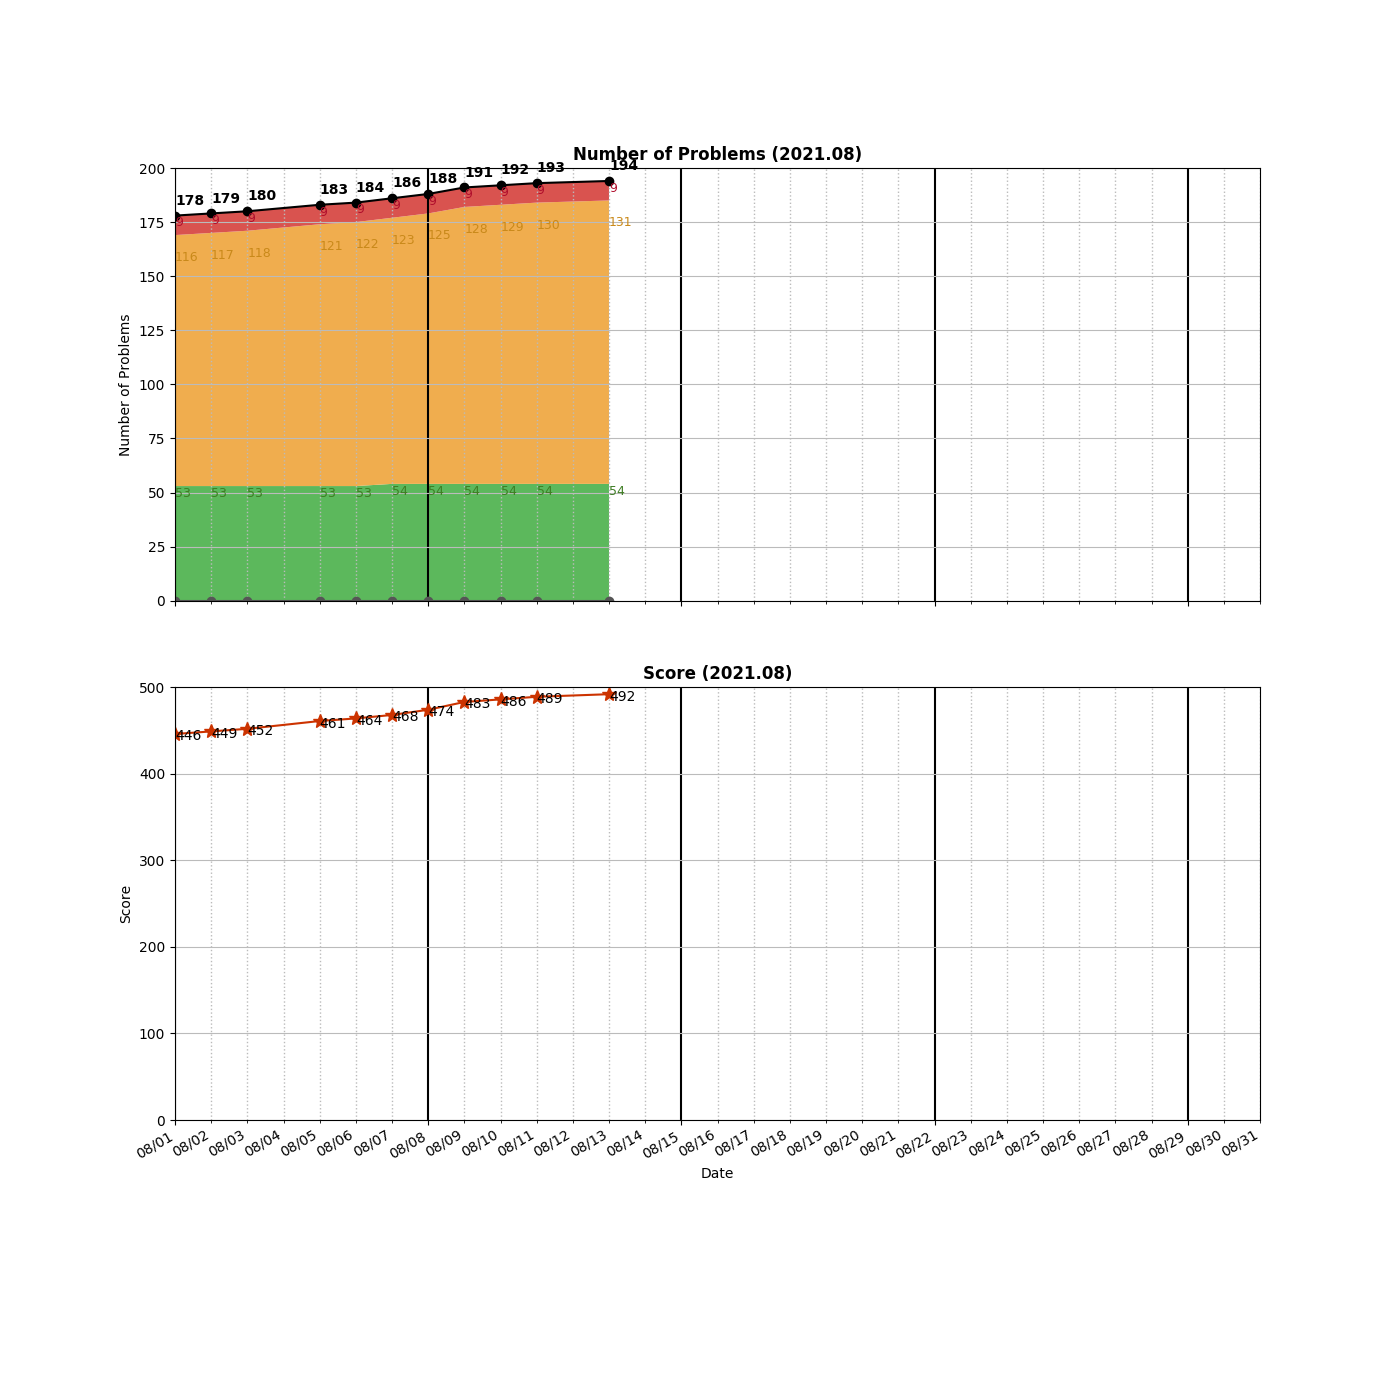
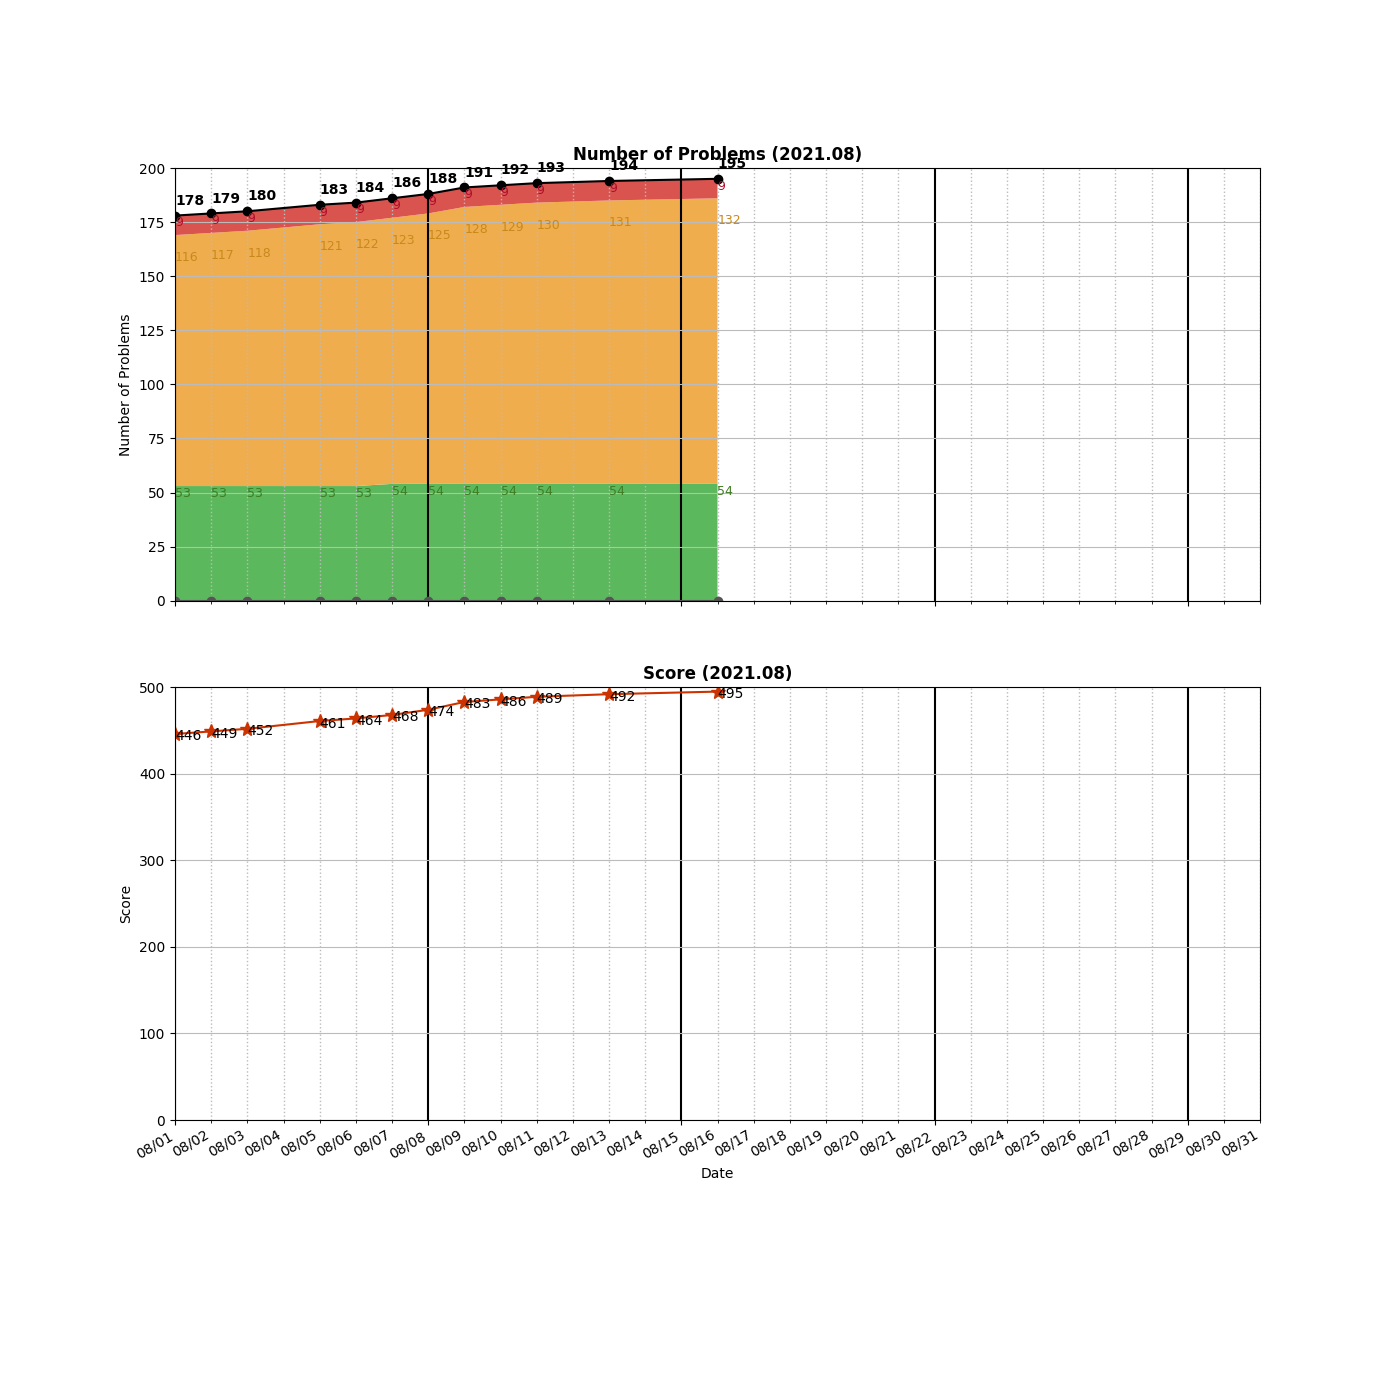
Added __0518__Coin Change 2.py

Changed region(s): [[0.43, 0.1229, 0.5221, 0.43], [0.4914, 0.4914, 0.5221, 0.5221]]

diff --git a/algo/DP/__0518__Coin Change 2.py b/algo/DP/__0518__Coin Change 2.py
@@ -1,0 +1,73 @@
+class Solution:
+    # Buttom-Up DP [Time O(m*n): 24% / Space O(n): 47%]
+    def change(self, amount: int, coins: List[int]) -> int:
+        print("Buttom-Up DP with space optimization")
+        
+        dp = [[0 for _ in range(amount+1)] for _ in range(2)]
+        
+        # Initialize
+        for i in range(2):
+            dp[i][0] = 1
+        
+        for i in range(len(coins)):
+            for j in range(1, amount+1):
+                dp[i%2][j] = dp[(i-1)%2][j]           #Num of methods of not-using coins[i]
+                if j >= coins[i]:
+                    dp[i%2][j] += dp[i%2][j-coins[i]] #Num of methods of using coins[i]
+        return max(dp[0][-1], dp[1][-1])
+    
+    # =====================================================
+
+    # Buttom-Up DP [Time O(m*n): 24% / Space O(m*n): 19%]
+    def change1(self, amount: int, coins: List[int]) -> int:
+        print("Buttom-Up DP")
+        
+        dp = [[0 for _ in range(amount+1)] for _ in range(len(coins))]
+        
+        # Initialize
+        for i in range(len(coins)):
+            dp[i][0] = 1
+        
+        for i in range(len(coins)):
+            for j in range(1, amount+1):
+                dp[i][j] = dp[i-1][j]            #Num of methods of not-using coins[i]
+                if j >= coins[i]:
+                    dp[i][j] += dp[i][j-coins[i]] #Num of methods of using coins[i]
+        #print(dp)
+        return dp[-1][-1]
+    
+    # =====================================================
+    
+    # Top-Down DP [TLE]
+    def change1(self, amount: int, coins: List[int]) -> int:
+        if not amount:
+            return 1
+        if not coins:
+            return 0
+        print("Top-Down DP")
+        
+        self.count = 0
+        self.coins = [] 
+        
+        #prune 
+        for coin in coins:
+            if coin <= amount:
+                self.coins.append(coin)
+        
+        res = []
+        memo = collections.defaultdict(int)
+        return self.dfs(amount, [], 0, res, memo)
+    
+    def dfs(self, amount, cur, idx, res, memo):
+        if amount < 0:
+            return 0
+        if amount == 0:
+            return 1
+        if (idx, amount) in memo:   #Memoization DP 
+            return memo[(idx, amount)]
+        
+        count = 0
+        for i in range(idx, len(self.coins)):
+            count += self.dfs(amount - self.coins[i], cur + [self.coins[i]], i, res, memo)
+        memo[(idx, amount)] = count
+        return count 

diff --git a/README.md b/README.md
@@ -83,7 +83,9 @@ algo
 │   ├── __0221__Maximal\ Square.py
 │   ├── __0300__Longest\ Increasing\ Subsequence.py
 │   ├── __0322__Coin\ Change.py
+│   ├── __0416__Partition\ Equal\ Subset\ Sum.py
 │   ├── __0494__Target\ Sum.py
+│   ├── __0518__Coin\ Change\ 2.py
 │   ├── __0576__Out\ of\ Boundary\ Paths.py
 │   ├── __0935__Knight\ Dialer.py
 │   ├── __1130__Minimum\ Cost\ Tree\ From\ Leaf\ Values.py
@@ -166,7 +168,6 @@ algo
 │   ├── __0314__Binary\ Tree\ Vertical\ Order\ Traversal.py
 │   ├── __0341__Flatten\ Nested\ List\ Iterator.py
 │   ├── __0366__Find\ Leaves\ of\ Binary\ Tree.py
-│   ├── __0416__Partition\ Equal\ Subset\ Sum.py
 │   ├── __0437__Path\ Sum\ III.py
 │   ├── __0450__Delete\ Node\ in\ a\ BST.py
 │   ├── __0510__Inorder\ Successor\ in\ BST\ II.py
@@ -221,7 +222,7 @@ algo
         ├── LinkedList.cpython-37.pyc
         └── UnrolledLinkedList.cpython-37.pyc
 
-21 directories, 199 files
+21 directories, 200 files
 
 =====================================
 ============= Local Repo ============
@@ -366,6 +367,7 @@ __0494__Target Sum.py
 __0510__Inorder Successor in BST II.py
 __0513__Find Bottom Left Tree Value.py
 __0515__Find Largest Value in Each Tree Row.py
+__0518__Coin Change 2.py
 __0532__K-diff Pairs in an Array.py
 __0538__Convert BST to Greater Tree.py
 __0540__Single Element in a Sorted Array.py
@@ -417,7 +419,7 @@ __1593__Split a String Into the Max Number of Unique Substrings.py
 __1711__Count Good Meals.py
 __1905__Count Sub Islands.py
 =====================================
-Num of Python Practice:  190
+Num of Python Practice:  191
 
 
 =====================================
@@ -565,6 +567,7 @@ Num of Python Practice:  190
  0510 Inorder Successor in BST II
  0513 Find Bottom Left Tree Value
  0515 Find Largest Value in Each Tree Row
+ 0518 Coin Change 2
  0532 K-diff Pairs in an Array
  0538 Convert BST to Greater Tree
  0540 Single Element in a Sorted Array
@@ -618,11 +621,11 @@ Num of Python Practice:  190
  1711 Count Good Meals
  1905 Count Sub Islands
 =====================================
-Solved / Total (Easy)  :   54 /  509
-Solved / Total (Medium):  131 / 1040
-Solved / Total (Hard)  :    9 /  417
-Solved / Total (All)   :  194 / 1966
-Total Score            :  492
+Solved / Total (Easy)  :   54 /  511
+Solved / Total (Medium):  132 / 1042
+Solved / Total (Hard)  :    9 /  418
+Solved / Total (All)   :  195 / 1971
+Total Score            :  495
 =====================================
 
 ```
